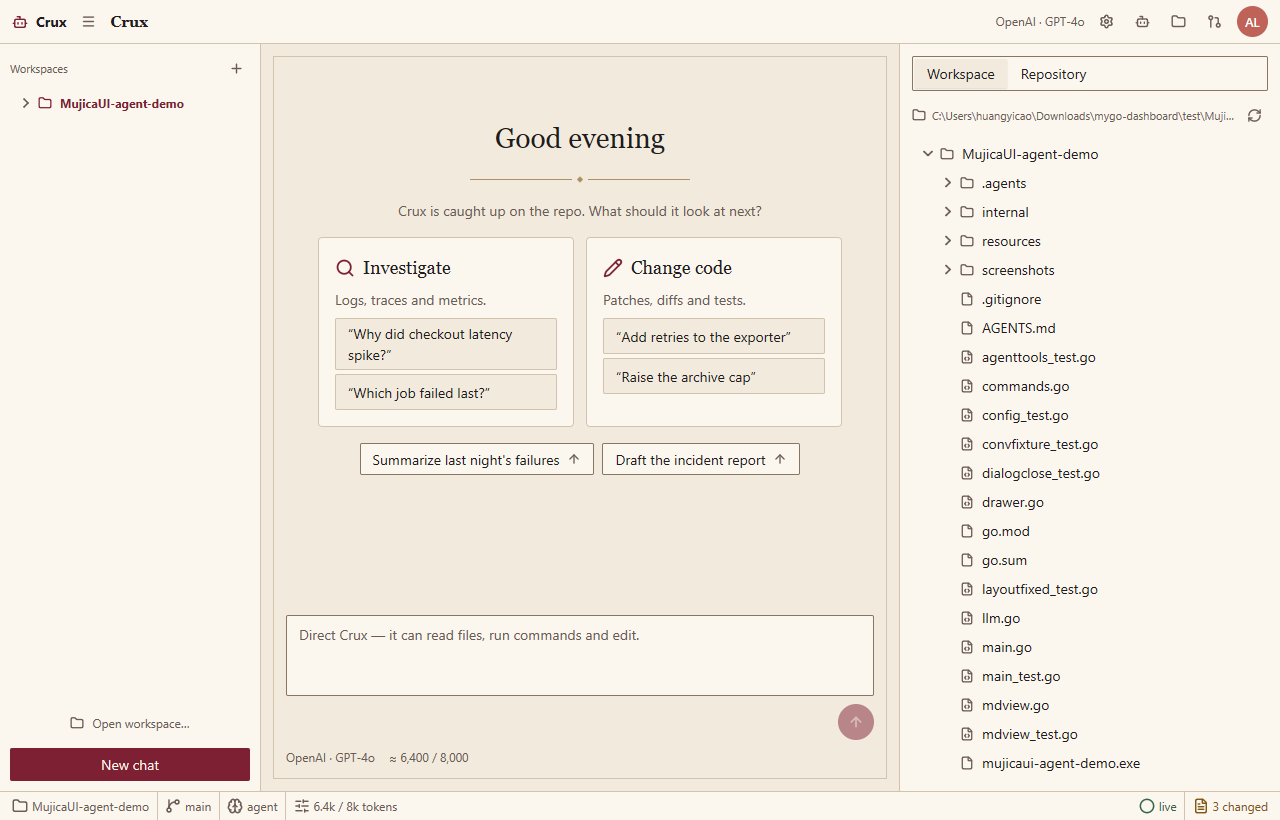
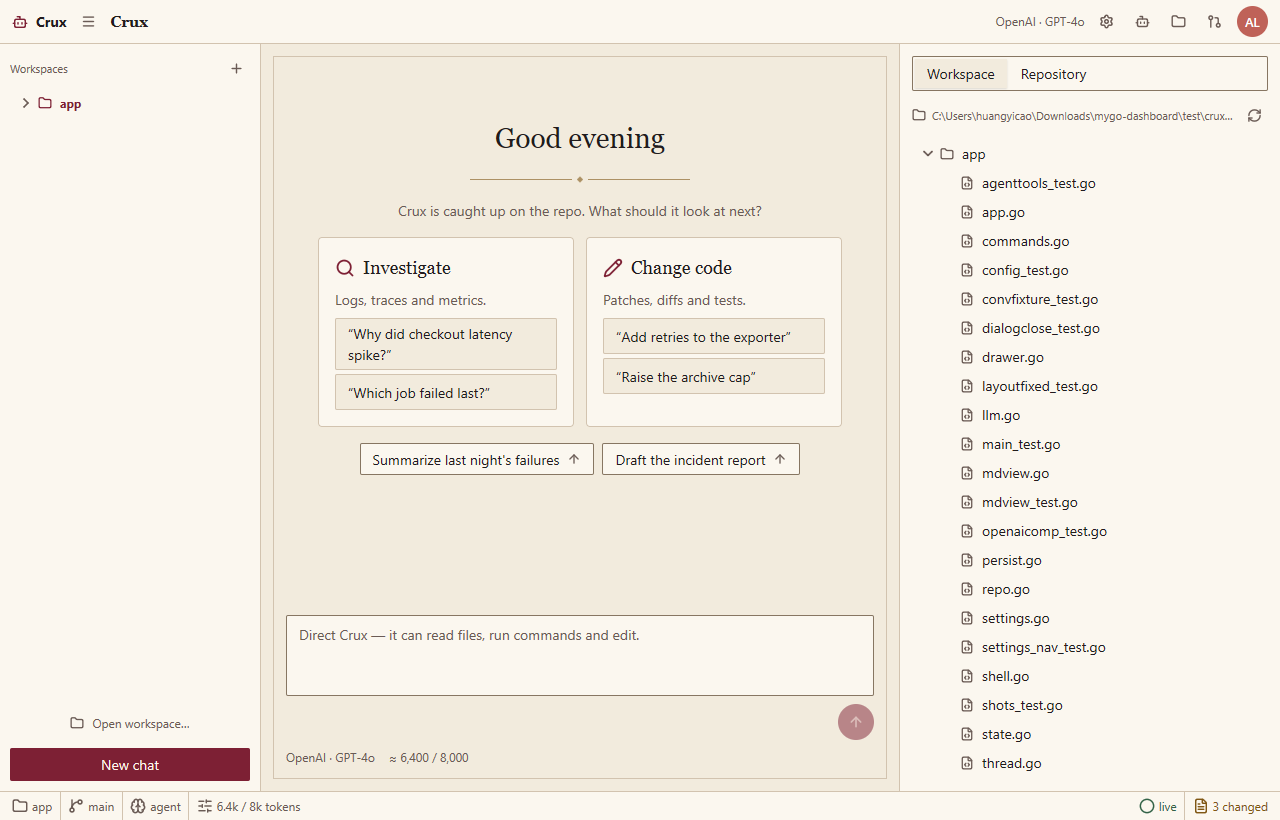
Move the UI layer into internal/app; harden atomic writes
Two changes: the root directory was still crowded with the whole UI
layer, and the atomic-write helper could fail with "The system cannot
find the file specified" when its fixed-name temp file vanished before
the rename (antivirus interference with fresh .tmp files, or two saves
of the same file racing).

UI layer moves to internal/app:
- state/shell/thread/llm/persist/wsdialog/settings/mdview/welcome/
  workspace/drawer/vcs/repo/tokens/commands and all UI tests now live
  in internal/app (package app); git tracked them as renames.
- internal/app/app.go gains Run(), the bootstrap that used to be
  main(): legacy-store migration, state restore, window creation,
  the a.redraw wiring and the heartbeat goroutine.
- The root keeps only a thin main.go that calls app.Run(), plus docs,
  go.mod/go.sum, mygo.json, screenshots/ and resources/.
- shots_test.go anchors a relative MYGO_UI_SHOTS at the module root,
  so `MYGO_UI_SHOTS=screenshots go test ./internal/app` still writes
  the README images to the repo-root screenshots/ directory.
- README/SPEC/AGENTS updated: three layers are internal/store (data),
  internal/engine (logic), internal/app (UI); main.go is a bootstrap;
  the screenshot command names the new package path.

Harden store.WriteFileAtomic:
- Create the temp file with os.CreateTemp (unique per call) instead of
  a fixed "<name>.tmp", so concurrent saves of the same file — or two
  app instances — can no longer consume each other's temp and fail the
[…]

diff --git a/internal/store/store.go b/internal/store/store.go
@@ -9,6 +9,7 @@ import (
 	"os"
 	"path/filepath"
 	"strings"
+	"time"
 )
 
 // DirName is the app's data folder name in the user's home directory.
@@ -94,25 +95,55 @@ func TranscriptPath(dir, id string) string {
 	return filepath.Join(dir, "sessions", sb.String()+".json")
 }
 
-// WriteFileAtomic replaces path with data: write a temp file, then rename.
-// A stale target with a broken ACL (the "Access is denied" class) is removed
-// once and the rename retried, so a bad file heals itself.
+// WriteFileAtomic replaces path with data: write a uniquely named temp file
+// in the target's directory, then rename it over the target. The unique
+// name (os.CreateTemp) keeps two saves of the same file — or two app
+// instances — from consuming each other's temp, which used to fail the
+// rename with "The system cannot find the file specified". A stale target
+// with a broken ACL (the "Access is denied" class) is removed once and the
+// rename retried, so a bad file heals itself. If the environment still
+// refuses the rename (antivirus interference with fresh .tmp files is the
+// usual suspect), the data falls back to a direct write rather than being
+// lost.
 func WriteFileAtomic(path string, data []byte) error {
-	if err := os.MkdirAll(filepath.Dir(path), 0o700); err != nil {
+	dir := filepath.Dir(path)
+	if err := os.MkdirAll(dir, 0o700); err != nil {
 		return err
 	}
-	tmp := path + ".tmp"
-	if err := os.WriteFile(tmp, data, 0o600); err != nil {
-		return err
-	}
-	if err := os.Rename(tmp, path); err != nil {
-		if rm := os.Remove(path); rm == nil {
-			if err2 := os.Rename(tmp, path); err2 == nil {
-				return nil
-			}
+	var lastErr error
+	for attempt := 0; attempt < 3; attempt++ {
+		tmp, err := os.CreateTemp(dir, filepath.Base(path)+".*.tmp")
+		if err != nil {
+			return err
 		}
-		os.Remove(tmp)
-		return err
+		name := tmp.Name()
+		_, werr := tmp.Write(data)
+		if cerr := tmp.Close(); werr == nil {
+			werr = cerr
+		}
+		if werr != nil {
+			os.Remove(name)
+			lastErr = werr
+			time.Sleep(30 * time.Millisecond)
+			continue
+		}
+		if rerr := os.Rename(name, path); rerr != nil {
+			lastErr = rerr
+			if os.Remove(path) == nil { // heal a locked/broken-ACL target
+				if err2 := os.Rename(name, path); err2 == nil {
+					return nil
+				}
+			}
+		} else {
+			return nil
+		}
+		os.Remove(name)
+		time.Sleep(30 * time.Millisecond)
+	}
+	// The rename keeps failing (antivirus interference with fresh .tmp
+	// files is the usual suspect): write directly so the save is not lost.
+	if err := os.WriteFile(path, data, 0o600); err != nil {
+		return lastErr
 	}
 	return nil
 }

diff --git a/main.go b/main.go
@@ -5,60 +5,24 @@
 // a command console. No web page, no HTML, no JavaScript — the whole
 // window is GPU-drawn.
 //
-// Layout of the code (three layers):
+// Layout of the code (three layers plus a bootstrap):
 //   - internal/store — the data layer: on-disk schemas, atomic writes and
 //     the legacy-store migration. No UI imports.
 //   - internal/engine — the logic layer: the pi-ai agent loop, the toolset
 //     and callback-based streaming. No UI imports.
-//   - package main (this directory) — the UI layer: app state, rendering
-//     and thin adapters that bridge the engine's callbacks into rows.
+//   - internal/app — the UI layer: app state, rendering and thin adapters
+//     that bridge the engine's callbacks into transcript rows.
+//   - main.go (this file) — a bootstrap that calls app.Run.
 package main
 
 import (
 	"log"
-	"time"
 
-	"crux-agent/internal/store"
-	"github.com/egoist/mygo"
-	"github.com/egoist/mygo/ui"
+	"crux-agent/internal/app"
 )
 
 func main() {
-	store.Migrate() // pull an older store (%AppData% / ~/.mujicaui-agent-demo) into ~/.crux-agent once
-	a := newApp()
-	a.loadSettings() // restore the persisted LLM backend, if any
-	if p, err := store.SessionsPath(); err == nil {
-		a.sessionsPath = p
-	}
-	if p, err := store.WorkspacePrefsPath(); err == nil {
-		a.wsPrefsPath = p
-	}
-	a.loadWsPrefs() // restore the last workspace (default: the home directory)
-	a.loadSessions()
-	a.restoreSession()
-	mygo.App.WhenReady(func() {
-		win := mygo.NewWindow(mygo.WindowOptions{
-			Title:     "Crux — coding agent",
-			Width:     1280,
-			Height:    820,
-			MinWidth:  1024,
-			MinHeight: 640,
-			StateKey:  "crux-app",
-			Content:   ui.View(a.view),
-		})
-		// The LLM stream runs on a goroutine; a.redraw marshels its state
-		// writes back onto the UI thread through Window.Update and repaints.
-		a.redraw = win.Update
-		// A one-second tick keeps the status bar's "live" dot breathing
-		// while Crux is idle, the way an agent console heartbeats.
-		go func() {
-			for {
-				time.Sleep(time.Second)
-				win.Update(func() {})
-			}
-		}()
-	})
-	if err := mygo.App.Run(); err != nil {
+	if err := app.Run(); err != nil {
 		log.Fatal(err)
 	}
 }

diff --git a/internal/app/app.go b/internal/app/app.go
@@ -1,0 +1,55 @@
+// Package app is Crux's UI layer: the app state, the rendering and the
+// thin adapters that bridge the engine's callbacks into transcript rows
+// and the store's schemas into persisted JSON. It sits on top of
+// internal/store (the data layer) and internal/engine (the logic layer)
+// and only touches their exported APIs.
+package app
+
+import (
+	"time"
+
+	"crux-agent/internal/store"
+	"github.com/egoist/mygo"
+	"github.com/egoist/mygo/ui"
+)
+
+// Run boots the app: migrate an older store, restore the persisted state,
+// open the window and pump the event loop. It returns when the window
+// closes.
+func Run() error {
+	store.Migrate() // pull an older store (%AppData% / ~/.mujicaui-agent-demo) into ~/.crux-agent once
+	a := newApp()
+	a.loadSettings() // restore the persisted LLM backend, if any
+	if p, err := store.SessionsPath(); err == nil {
+		a.sessionsPath = p
+	}
+	if p, err := store.WorkspacePrefsPath(); err == nil {
+		a.wsPrefsPath = p
+	}
+	a.loadWsPrefs() // restore the last workspace (default: the home directory)
+	a.loadSessions()
+	a.restoreSession()
+	mygo.App.WhenReady(func() {
+		win := mygo.NewWindow(mygo.WindowOptions{
+			Title:     "Crux — coding agent",
+			Width:     1280,
+			Height:    820,
+			MinWidth:  1024,
+			MinHeight: 640,
+			StateKey:  "crux-app",
+			Content:   ui.View(a.view),
+		})
+		// The LLM stream runs on a goroutine; a.redraw marshals its state
+		// writes back onto the UI thread through Window.Update and repaints.
+		a.redraw = win.Update
+		// A one-second tick keeps the status bar's "live" dot breathing
+		// while Crux is idle, the way an agent console heartbeats.
+		go func() {
+			for {
+				time.Sleep(time.Second)
+				win.Update(func() {})
+			}
+		}()
+	})
+	return mygo.App.Run()
+}

diff --git a/internal/store/store_test.go b/internal/store/store_test.go
@@ -9,7 +9,9 @@ import (
 	"encoding/json"
 	"os"
 	"path/filepath"
+	"strconv"
 	"strings"
+	"sync"
 	"testing"
 	"time"
 )
@@ -175,6 +177,38 @@ func TestLegacyIndexMigration(t *testing.T) {
 	// A second run is a no-op.
 	if MigrateLegacyIndex(path, dir, clean) {
 		t.Fatal("migration ran twice")
+	}
+}
+
+// Concurrent saves of the same file must all succeed: the temp name is
+// unique per call, so parallel writers never consume each other's temp
+// (which used to fail the rename with "file not found").
+func TestWriteFileAtomicConcurrent(t *testing.T) {
+	path := filepath.Join(t.TempDir(), "settings.json")
+	var wg sync.WaitGroup
+	for i := 0; i < 8; i++ {
+		wg.Add(1)
+		go func(i int) {
+			defer wg.Done()
+			for j := 0; j < 10; j++ {
+				if err := WriteFileAtomic(path, []byte(strconv.Itoa(i))); err != nil {
+					t.Errorf("write %d-%d: %v", i, j, err)
+					return
+				}
+			}
+		}(i)
+	}
+	wg.Wait()
+	buf, err := os.ReadFile(path)
+	if err != nil || len(buf) == 0 {
+		t.Fatalf("final file unreadable: %q %v", buf, err)
+	}
+	// No temp litter survives a successful run.
+	entries, _ := os.ReadDir(filepath.Dir(path))
+	for _, e := range entries {
+		if strings.HasSuffix(e.Name(), ".tmp") {
+			t.Fatalf("temp file left behind: %s", e.Name())
+		}
 	}
 }
 

diff --git a/internal/app/shots_test.go b/internal/app/shots_test.go
@@ -1,9 +1,9 @@
-package main
+package app
 
 // shots_test.go renders the app's key surfaces to PNG for the README and
 // for visual audits. It is a no-op unless MYGO_UI_SHOTS names a directory:
 //
-//	MYGO_UI_SHOTS=screenshots go test . -run TestScreenshots
+//	MYGO_UI_SHOTS=screenshots go test ./internal/app -run TestScreenshots
 
 import (
 	"image/png"
@@ -15,10 +15,33 @@ import (
 	"github.com/egoist/mygo/ui"
 )
 
+// moduleRoot walks up from the working directory to the directory holding
+// go.mod, so a relative MYGO_UI_SHOTS lands at the repo root no matter
+// which package's directory the test runs in.
+func moduleRoot() string {
+	dir, err := os.Getwd()
+	if err != nil {
+		return "."
+	}
+	for {
+		if _, err := os.Stat(filepath.Join(dir, "go.mod")); err == nil {
+			return dir
+		}
+		parent := filepath.Dir(dir)
+		if parent == dir {
+			return "."
+		}
+		dir = parent
+	}
+}
+
 func TestScreenshots(t *testing.T) {
 	dir := os.Getenv("MYGO_UI_SHOTS")
 	if dir == "" {
 		t.Skip("set MYGO_UI_SHOTS to a directory to write the UI screenshots")
+	}
+	if !filepath.IsAbs(dir) {
+		dir = filepath.Join(moduleRoot(), dir)
 	}
 	if err := os.MkdirAll(dir, 0o755); err != nil {
 		t.Fatal(err)

diff --git a/internal/app/agenttools_test.go b/internal/app/agenttools_test.go
@@ -1,4 +1,4 @@
-package main
+package app
 
 // agenttools_test.go covers the UI side of tool runs: the three legacy card
 // rows a tool call produces render headless, and a streaming reply's tool

diff --git a/internal/app/config_test.go b/internal/app/config_test.go
@@ -1,4 +1,4 @@
-package main
+package app
 
 // config_test.go covers the settings persistence glue: a save/load roundtrip
 // keeps the editable fields, transient call state stays out of the file,

diff --git a/internal/app/persist.go b/internal/app/persist.go
@@ -1,4 +1,4 @@
-package main
+package app
 
 // persist.go is the UI layer's persistence glue: it moves transcript rows
 // in and out of the store's data-layer schemas, keeps the session index and

diff --git a/internal/app/drawer.go b/internal/app/drawer.go
@@ -1,4 +1,4 @@
-package main
+package app
 
 // drawer.go is Crux's large right-hand code viewer: an overlay.Drawer that
 // slides over the inspector. The workspace tree opens file contents in it

diff --git a/internal/app/repo.go b/internal/app/repo.go
@@ -1,4 +1,4 @@
-package main
+package app
 
 // repo.go is the Crux right-hand inspector: the Workspace tab browses the
 // real directory tree, and the Repository tab manages the workspace's real

diff --git a/internal/app/settings.go b/internal/app/settings.go
@@ -1,4 +1,4 @@
-package main
+package app
 
 // settings.go adds the Settings dialog the frontend needs: one modal with a
 // left source-list (Providers / Agent). Providers lets the user pick the

diff --git a/internal/app/workspace.go b/internal/app/workspace.go
@@ -1,4 +1,4 @@
-package main
+package app
 
 // workspace.go is Crux's workspace: the real directory the session works
 // in, browsed as a lazily-loaded file tree in the right-hand pane the way
